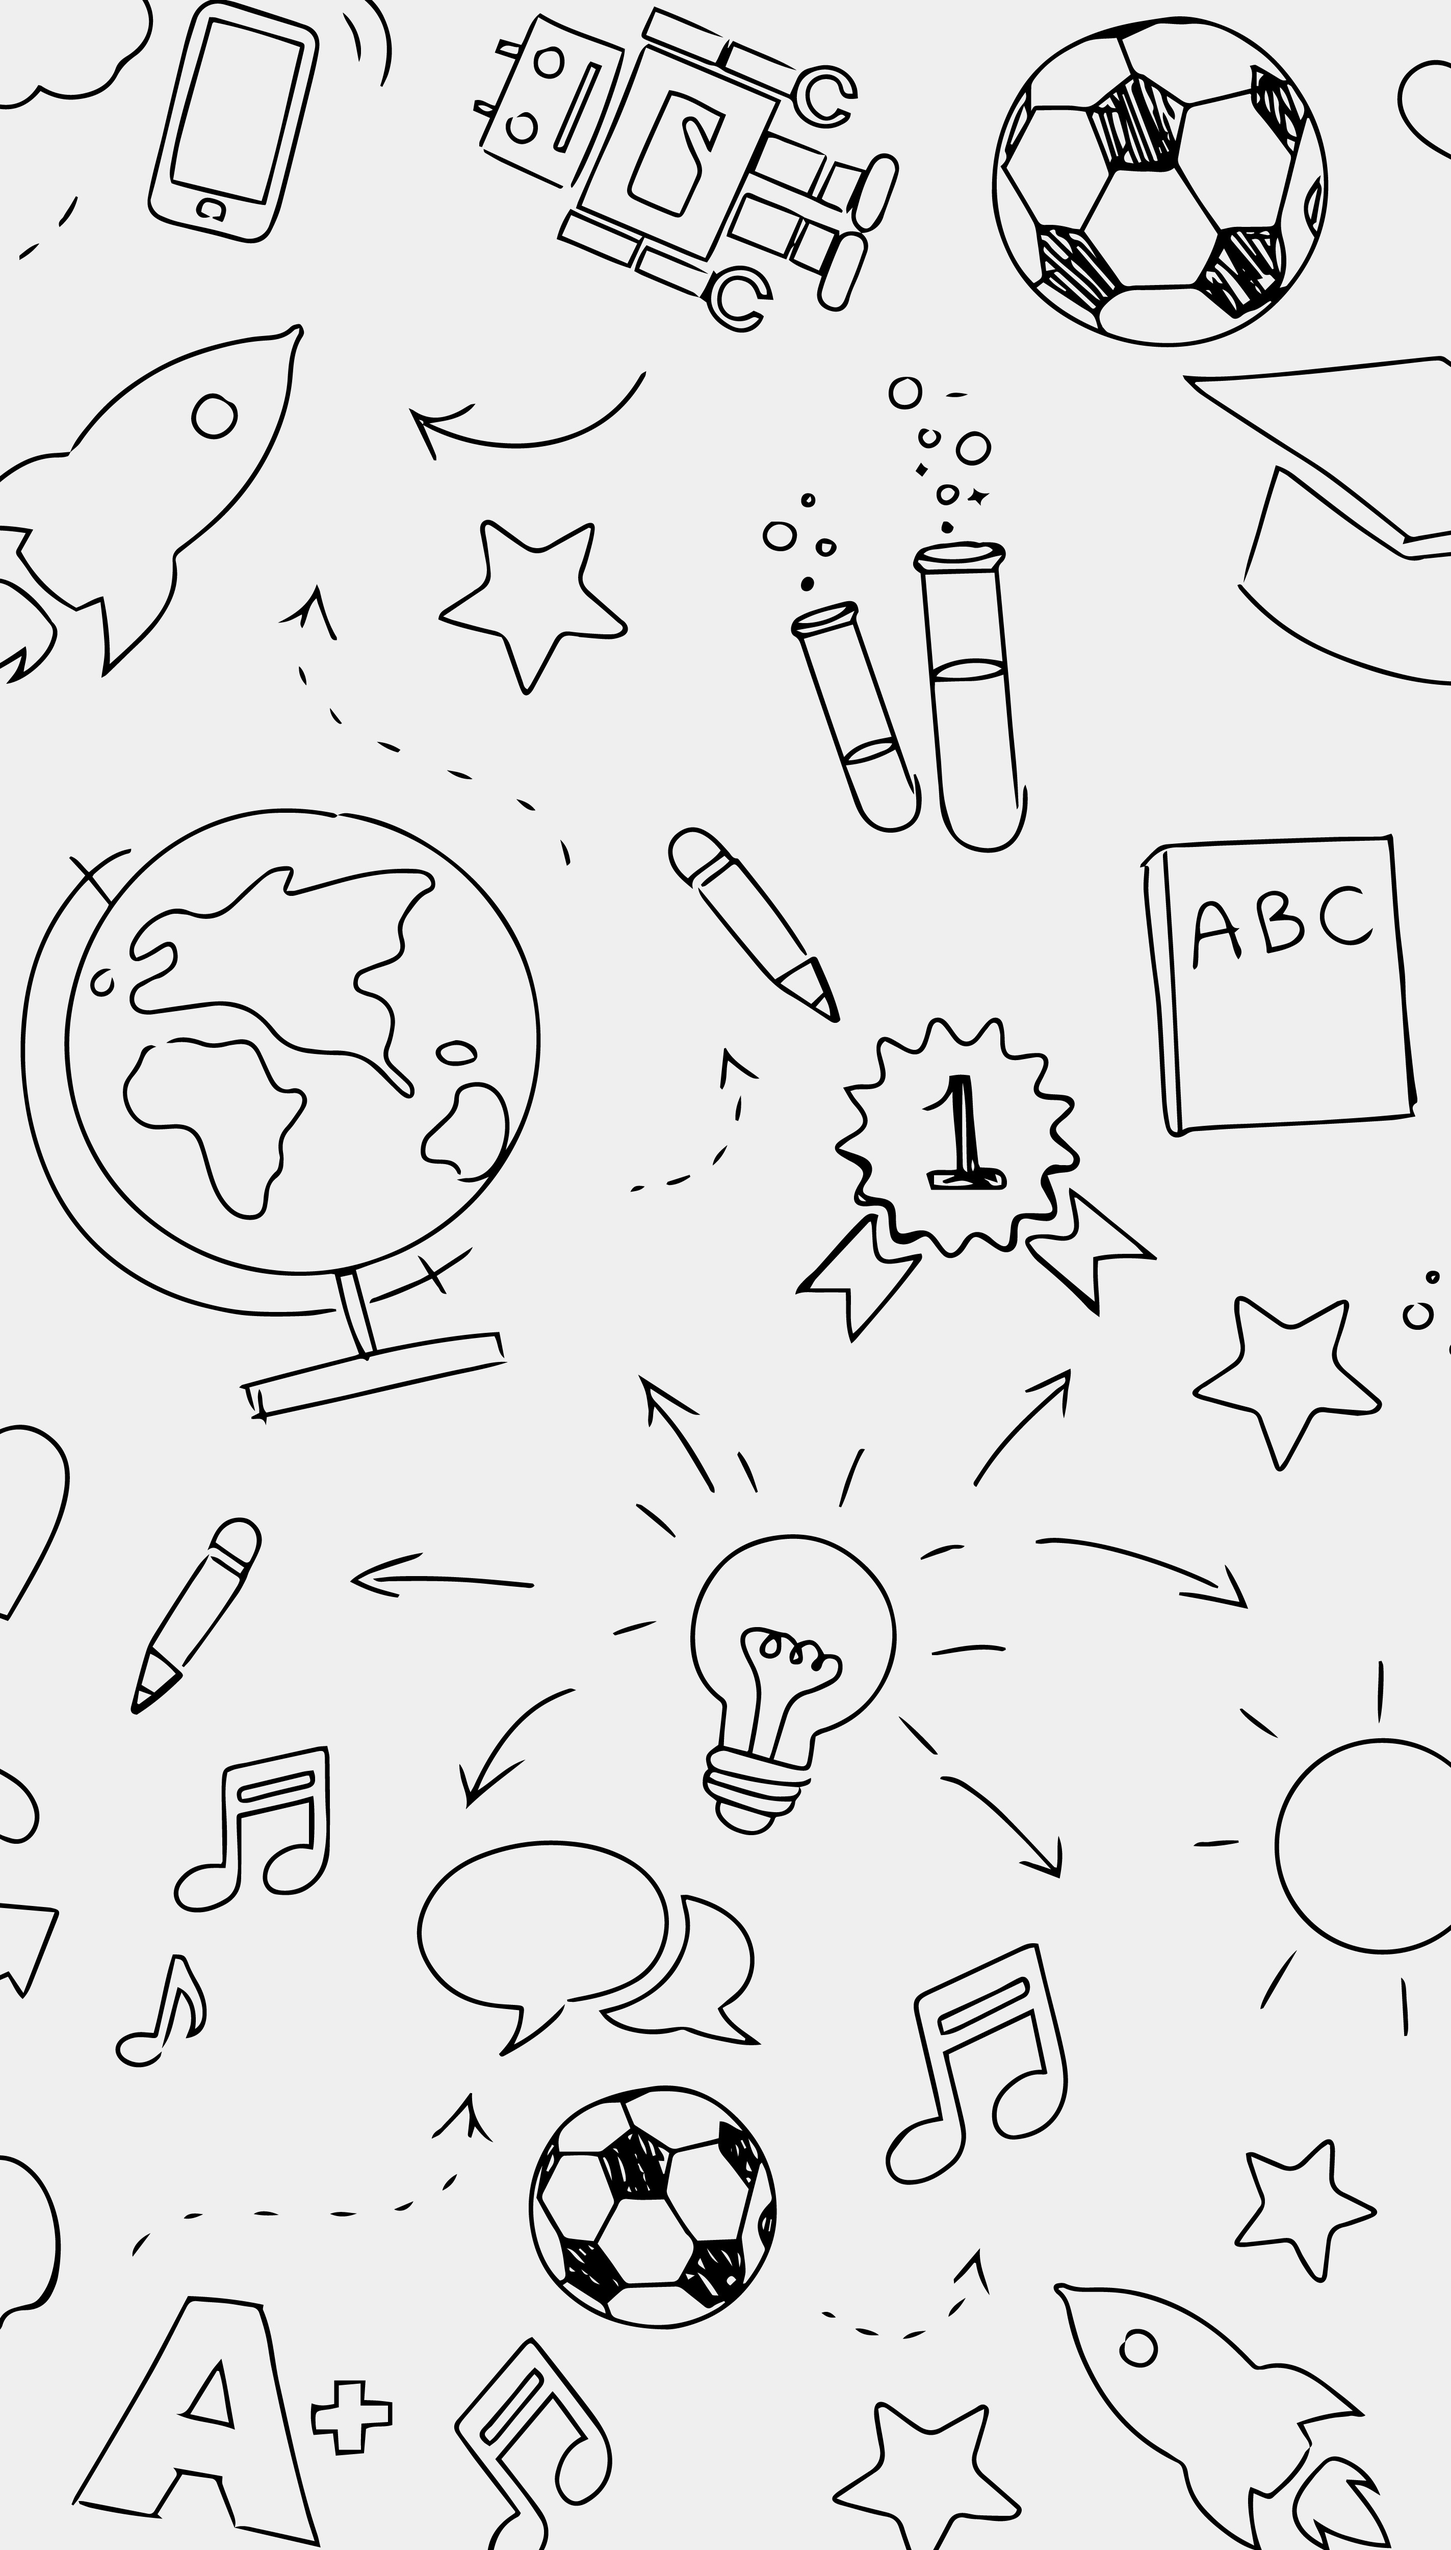
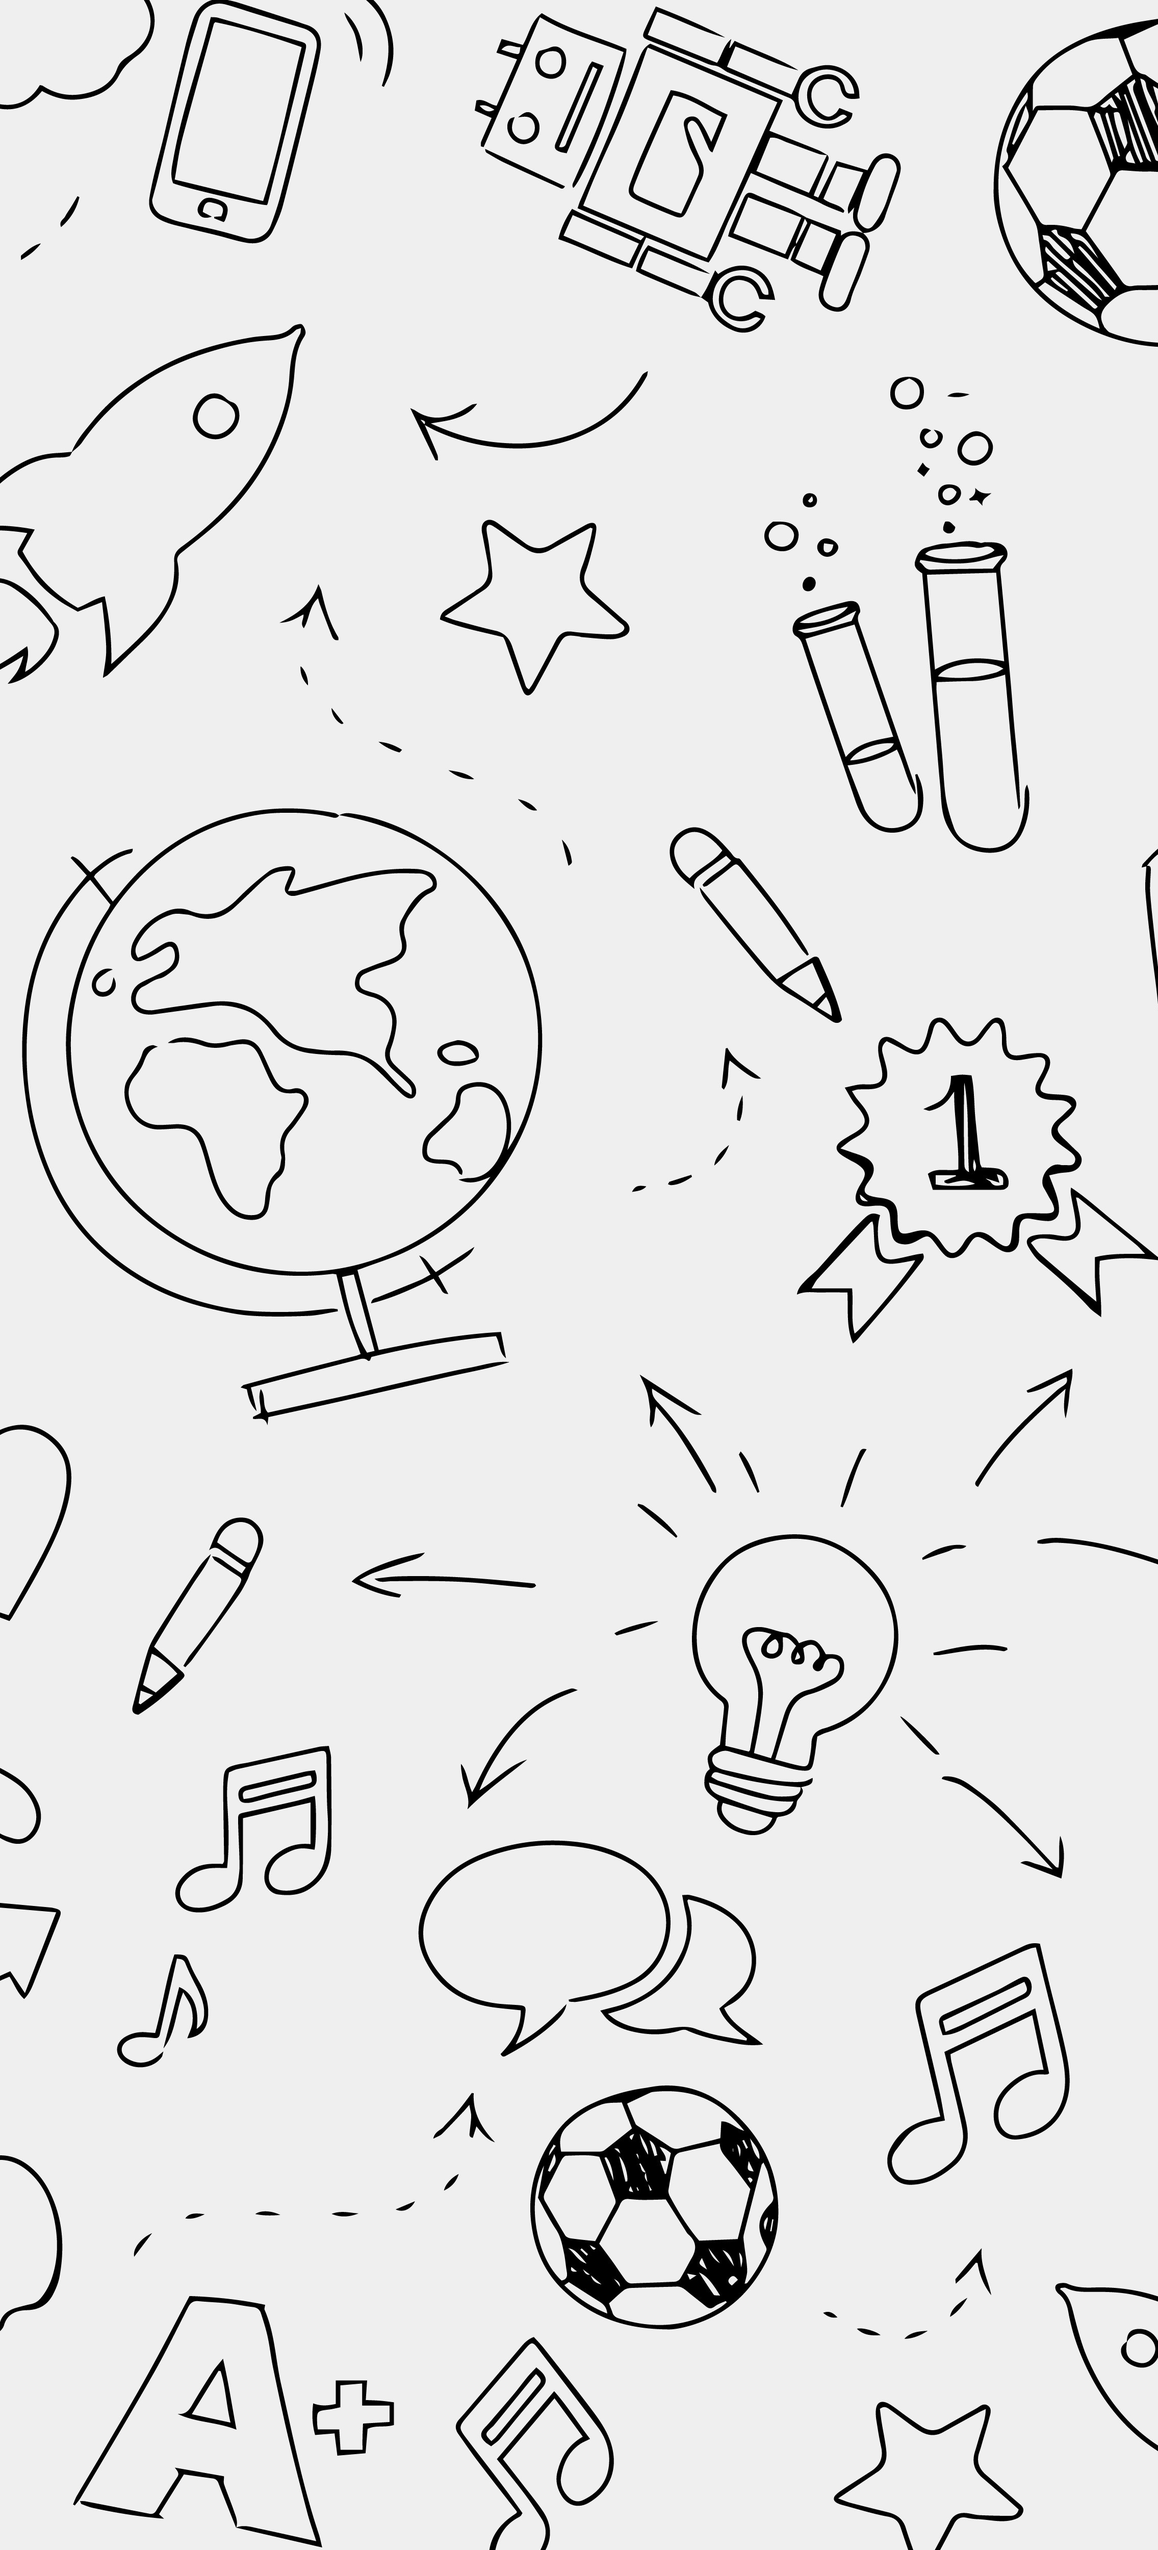
Updated little wittle bit of home screen

diff --git a/lib/Home_screen.dart b/lib/Home_screen.dart
@@ -6,6 +6,7 @@ import './Study Material/screen/BranchTabs_screen.dart';
 import './Study Material/screen/FirstYear_screen.dart';
 import './Study Material/widget/image_slider.dart';
 import './SidePanel.dart';
+import 'package:google_fonts/google_fonts.dart';
 
 class HomeScreen extends StatefulWidget {
   DateTime currentDate;
@@ -27,7 +28,7 @@ class _HomeScreenState extends State<HomeScreen> {
         decoration: BoxDecoration(
           image: DecorationImage(
             image: AssetImage('images/rm347-porpla-02-a-01.jpg'),
-            fit: BoxFit.fitHeight,
+            fit: BoxFit.cover,
           ),
         ),
         child: Scaffold(
@@ -192,30 +193,47 @@ class _HomeScreenState extends State<HomeScreen> {
           body: ListView(
             children: <Widget>[
               Padding(
-                padding: const EdgeInsets.only(top: 20),
+                padding: const EdgeInsets.only(top: 30),
                 child: ImageSlider(),
               ),
               SizedBox(
                 height: screenSize.height * 0.05,
               ),
+              // TODO dyanamic karrna hai ise
               Padding(
-                padding: const EdgeInsets.only(bottom: 20, left: 20, right: 20),
+                padding: const EdgeInsets.only(left: 30, right: 30),
+                // child: FittedBox(
                 child: Container(
-                  // color: Color.fromARGB(255, 90, 146, 161),
+                  height: screenSize.height * 0.06,
+                  width: screenSize.width * 0.2,
+                  decoration: BoxDecoration(
+                    borderRadius: BorderRadius.circular(10),
+                    color: Color.fromARGB(255, 0, 115, 147),
+                  ),
+                  // child: FittedBox(
                   child: Text(
                     'Happy Mugging!',
                     textAlign: TextAlign.center,
-                    style: TextStyle(
-                      // color: Colors.white,
-                      color: Colors.black,
-                      fontWeight: FontWeight.bold,
-                      fontSize: 40,
+                    style: GoogleFonts.lato(
+                      textStyle: Theme.of(context).textTheme.headline4,
+                      color: Color.fromARGB(255, 196, 223, 21),
+                      // color: Colors.blueAccent,
+                      fontSize: 38,
+                      fontWeight: FontWeight.w700,
+                      fontStyle: FontStyle.italic,
                     ),
+                    // TextStyle(
+                    //   color: Colors.black,
+                    //   fontWeight: FontWeight.bold,
+                    //   fontSize: 40,
+                    // ),
                   ),
+                  // ),
                 ),
+                // ),
               ),
               SizedBox(
-                height: screenSize.height * 0.04,
+                height: screenSize.height * 0.1,
               ),
 
               // First Year Button
@@ -241,7 +259,13 @@ class _HomeScreenState extends State<HomeScreen> {
                           },
                           child: Text(
                             'First Year',
-                            style: TextStyle(fontSize: 20, color: Colors.black),
+                            style: GoogleFonts.lato(
+                              textStyle: Theme.of(context).textTheme.headline4,
+                              color: Color.fromARGB(255, 196, 223, 21),
+                              fontSize: 20,
+                              fontWeight: FontWeight.w700,
+                              fontStyle: FontStyle.italic,
+                            ),
                           ),
                         ),
                       ),
@@ -275,7 +299,13 @@ class _HomeScreenState extends State<HomeScreen> {
                           },
                           child: Text(
                             'Second Year',
-                            style: TextStyle(fontSize: 20, color: Colors.black),
+                            style: GoogleFonts.lato(
+                              textStyle: Theme.of(context).textTheme.headline4,
+                              color: Color.fromARGB(255, 196, 223, 21),
+                              fontSize: 20,
+                              fontWeight: FontWeight.w700,
+                              fontStyle: FontStyle.italic,
+                            ),
                           ),
                         ),
                       ),
@@ -311,7 +341,13 @@ class _HomeScreenState extends State<HomeScreen> {
                           },
                           child: Text(
                             'Third Year',
-                            style: TextStyle(fontSize: 20, color: Colors.black),
+                            style: GoogleFonts.lato(
+                              textStyle: Theme.of(context).textTheme.headline4,
+                              color: Color.fromARGB(255, 196, 223, 21),
+                              fontSize: 20,
+                              fontWeight: FontWeight.w700,
+                              fontStyle: FontStyle.italic,
+                            ),
                           ),
                         ),
                       ),
@@ -341,7 +377,13 @@ class _HomeScreenState extends State<HomeScreen> {
                           },
                           child: Text(
                             'Fourth Year',
-                            style: TextStyle(fontSize: 20, color: Colors.black),
+                            style: GoogleFonts.lato(
+                              textStyle: Theme.of(context).textTheme.headline4,
+                              color: Color.fromARGB(255, 196, 223, 21),
+                              fontSize: 20,
+                              fontWeight: FontWeight.w700,
+                              fontStyle: FontStyle.italic,
+                            ),
                           ),
                         ),
                       ),

diff --git a/lib/Study Material/widget/image_slider.dart b/lib/Study Material/widget/image_slider.dart
@@ -7,29 +7,30 @@ class ImageSlider extends StatelessWidget {
   @override
   Widget build(BuildContext context) {
     ImageProvider a = AssetImage('images/pictira_background_1.jpg');
+    var screenSize = MediaQuery.of(context).size;
 
     try {
       return Container(
-        height: 230,
+        height: screenSize.height * 0.25,
         width: 500,
         child: ListView(
           children: [
             CarouselSlider(
               options: CarouselOptions(
-                height: 200,
+                height: screenSize.height * 0.24,
                 enlargeCenterPage: true,
                 autoPlay: true,
-                viewportFraction: 1.0,
-                autoPlayCurve: Curves.ease,
+                viewportFraction: 2.0,
+                // autoPlayCurve: Curves.ease,
                 enableInfiniteScroll: true,
                 autoPlayAnimationDuration: Duration(milliseconds: 800),
               ),
               items: [
                 Container(
                   width: 400,
-                  height: 300,
+                  height: screenSize.height * 0.24,
                   child: BackdropFilter(
-                    filter: ImageFilter.blur(sigmaX: 2, sigmaY: 2),
+                    filter: ImageFilter.blur(sigmaX: 0, sigmaY: 1),
                     child: Container(
                       child: Align(
                         alignment: Alignment.center,
@@ -57,9 +58,9 @@ class ImageSlider extends StatelessWidget {
                 ),
                 Container(
                   width: 400,
-                  height: 300,
+                  height: screenSize.height * 0.24,
                   child: BackdropFilter(
-                    filter: ImageFilter.blur(sigmaX: 2, sigmaY: 2),
+                    filter: ImageFilter.blur(sigmaX: 0.5, sigmaY: 0.5),
                     child: Container(
                       child: Align(
                         alignment: Alignment.center,
@@ -87,7 +88,7 @@ class ImageSlider extends StatelessWidget {
                 ),
                 Container(
                   width: 400,
-                  height: 300,
+                  height: screenSize.height * 0.24,
                   decoration: BoxDecoration(
                     borderRadius: BorderRadius.circular(10),
                     image: DecorationImage(
@@ -96,7 +97,7 @@ class ImageSlider extends StatelessWidget {
                     ),
                   ),
                   child: BackdropFilter(
-                    filter: ImageFilter.blur(sigmaX: 2, sigmaY: 2),
+                    filter: ImageFilter.blur(sigmaX: 0.5, sigmaY: 0.5),
                     child: Container(
                       child: Align(
                         alignment: Alignment.center,
